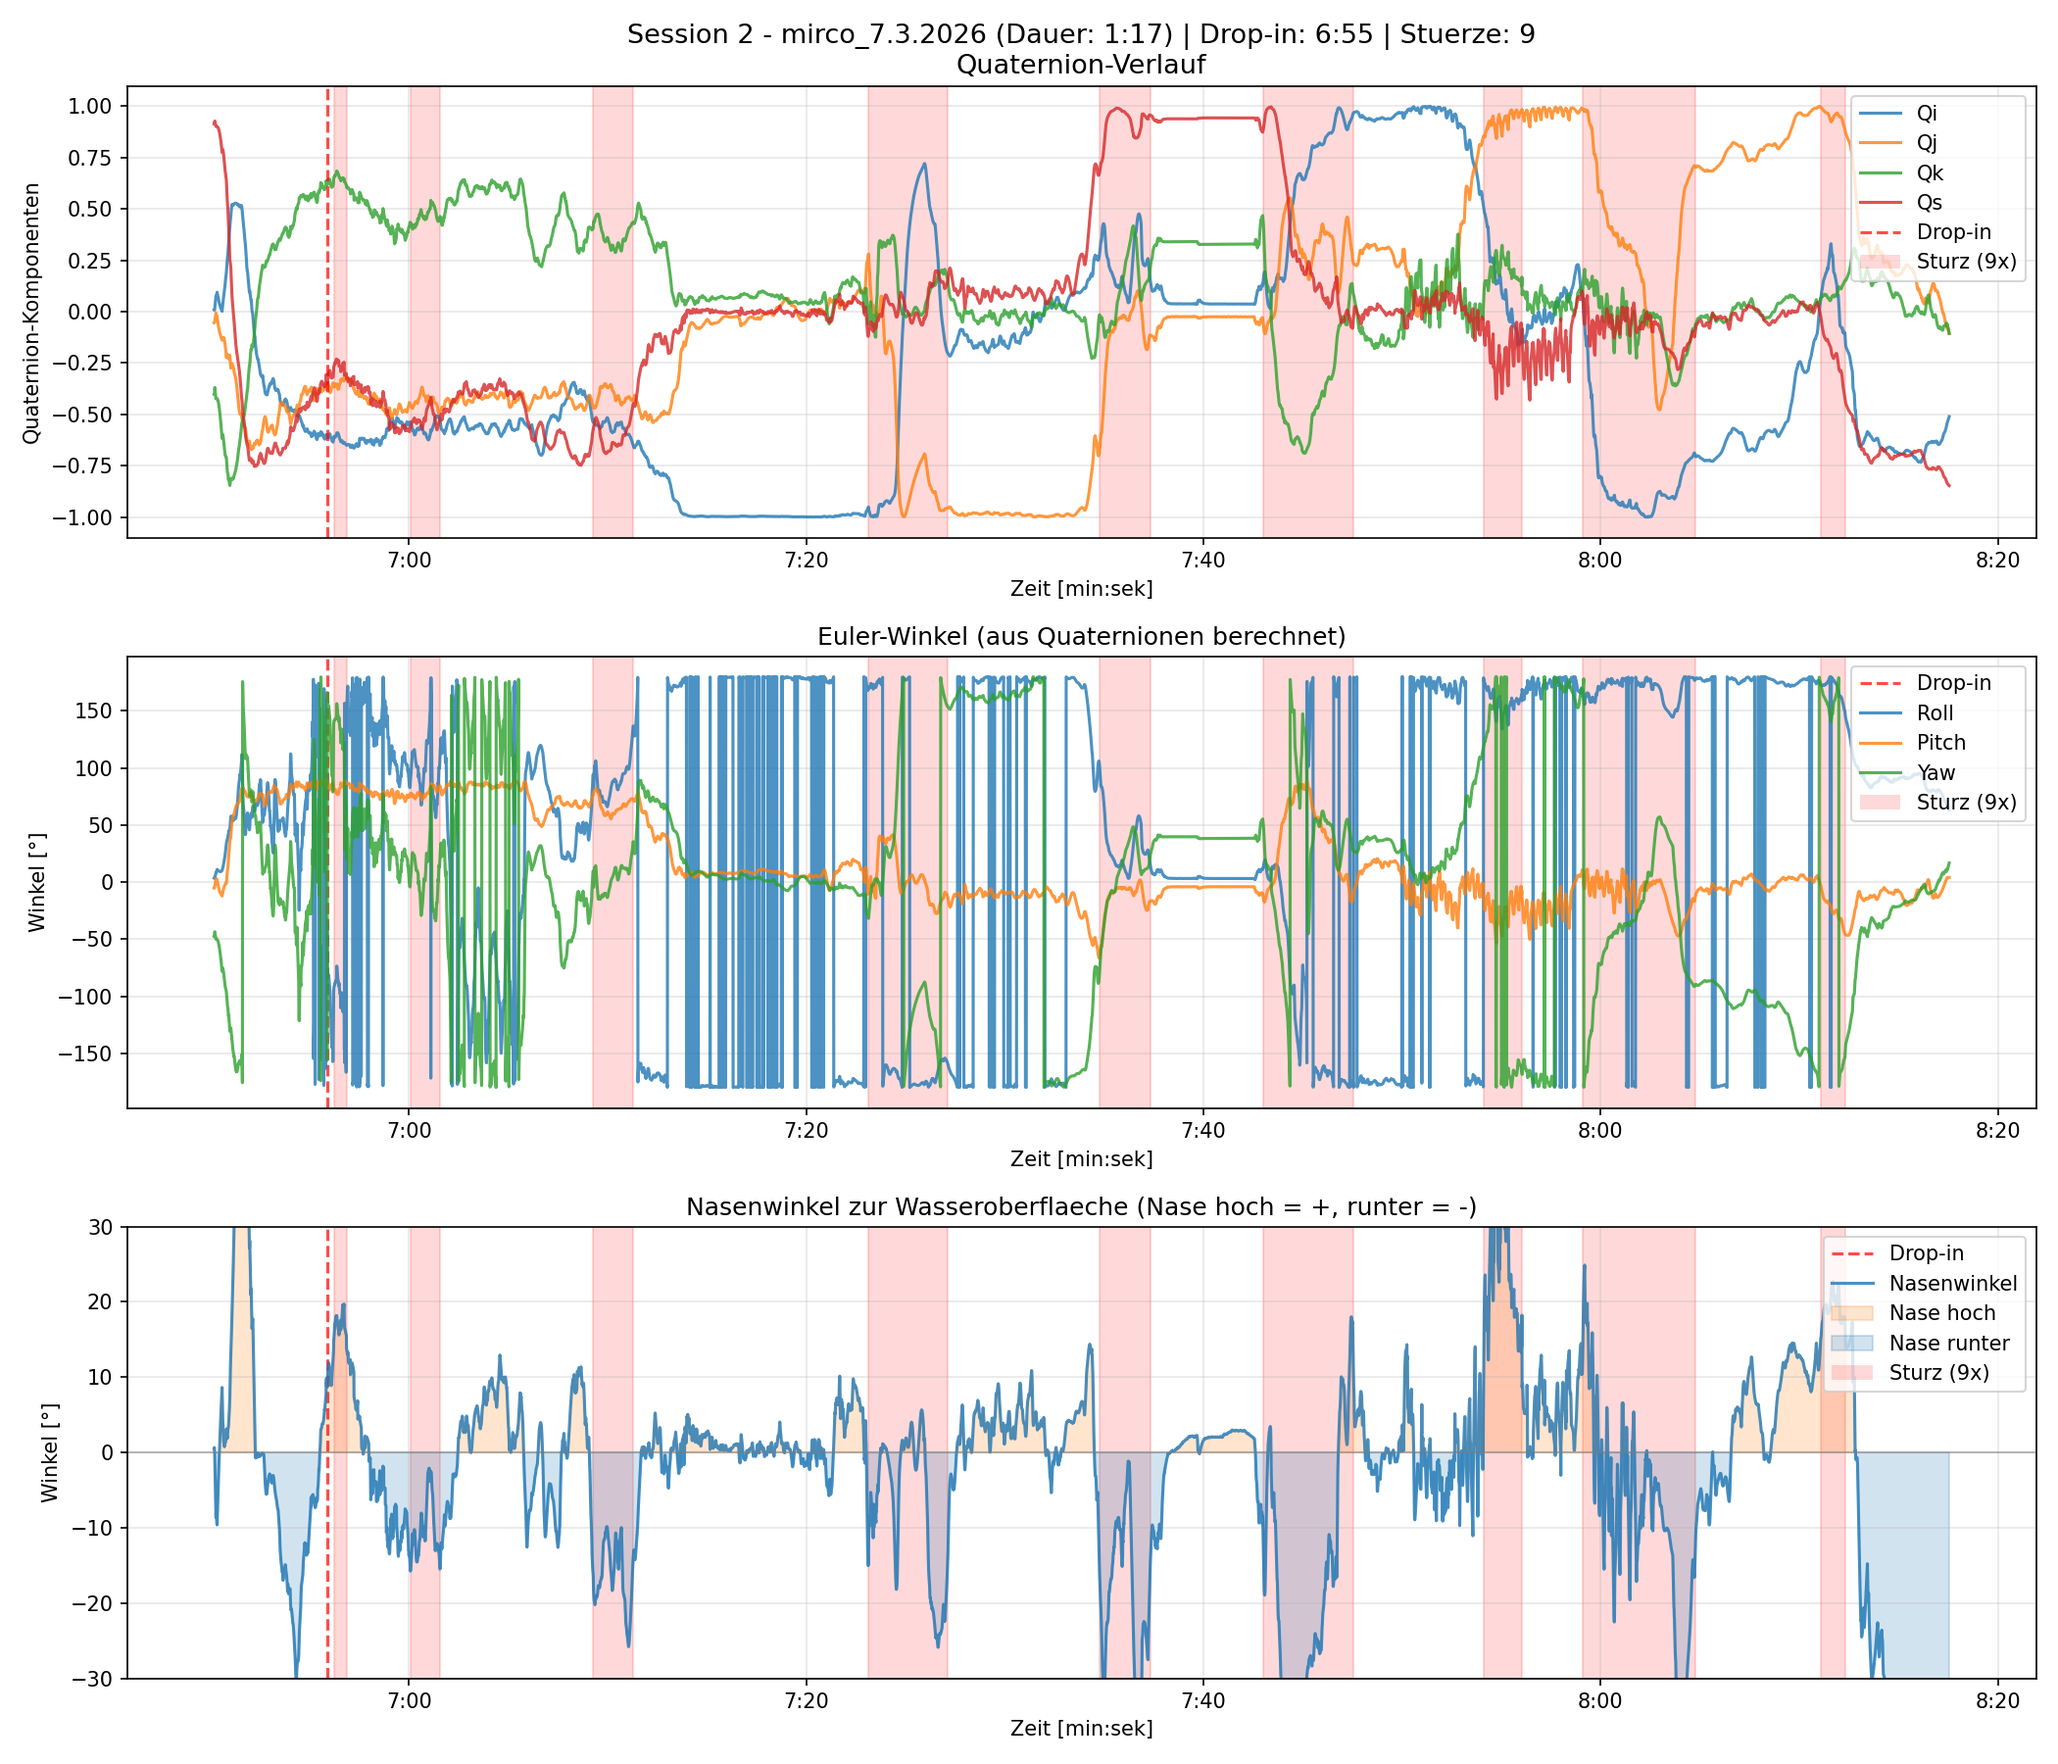
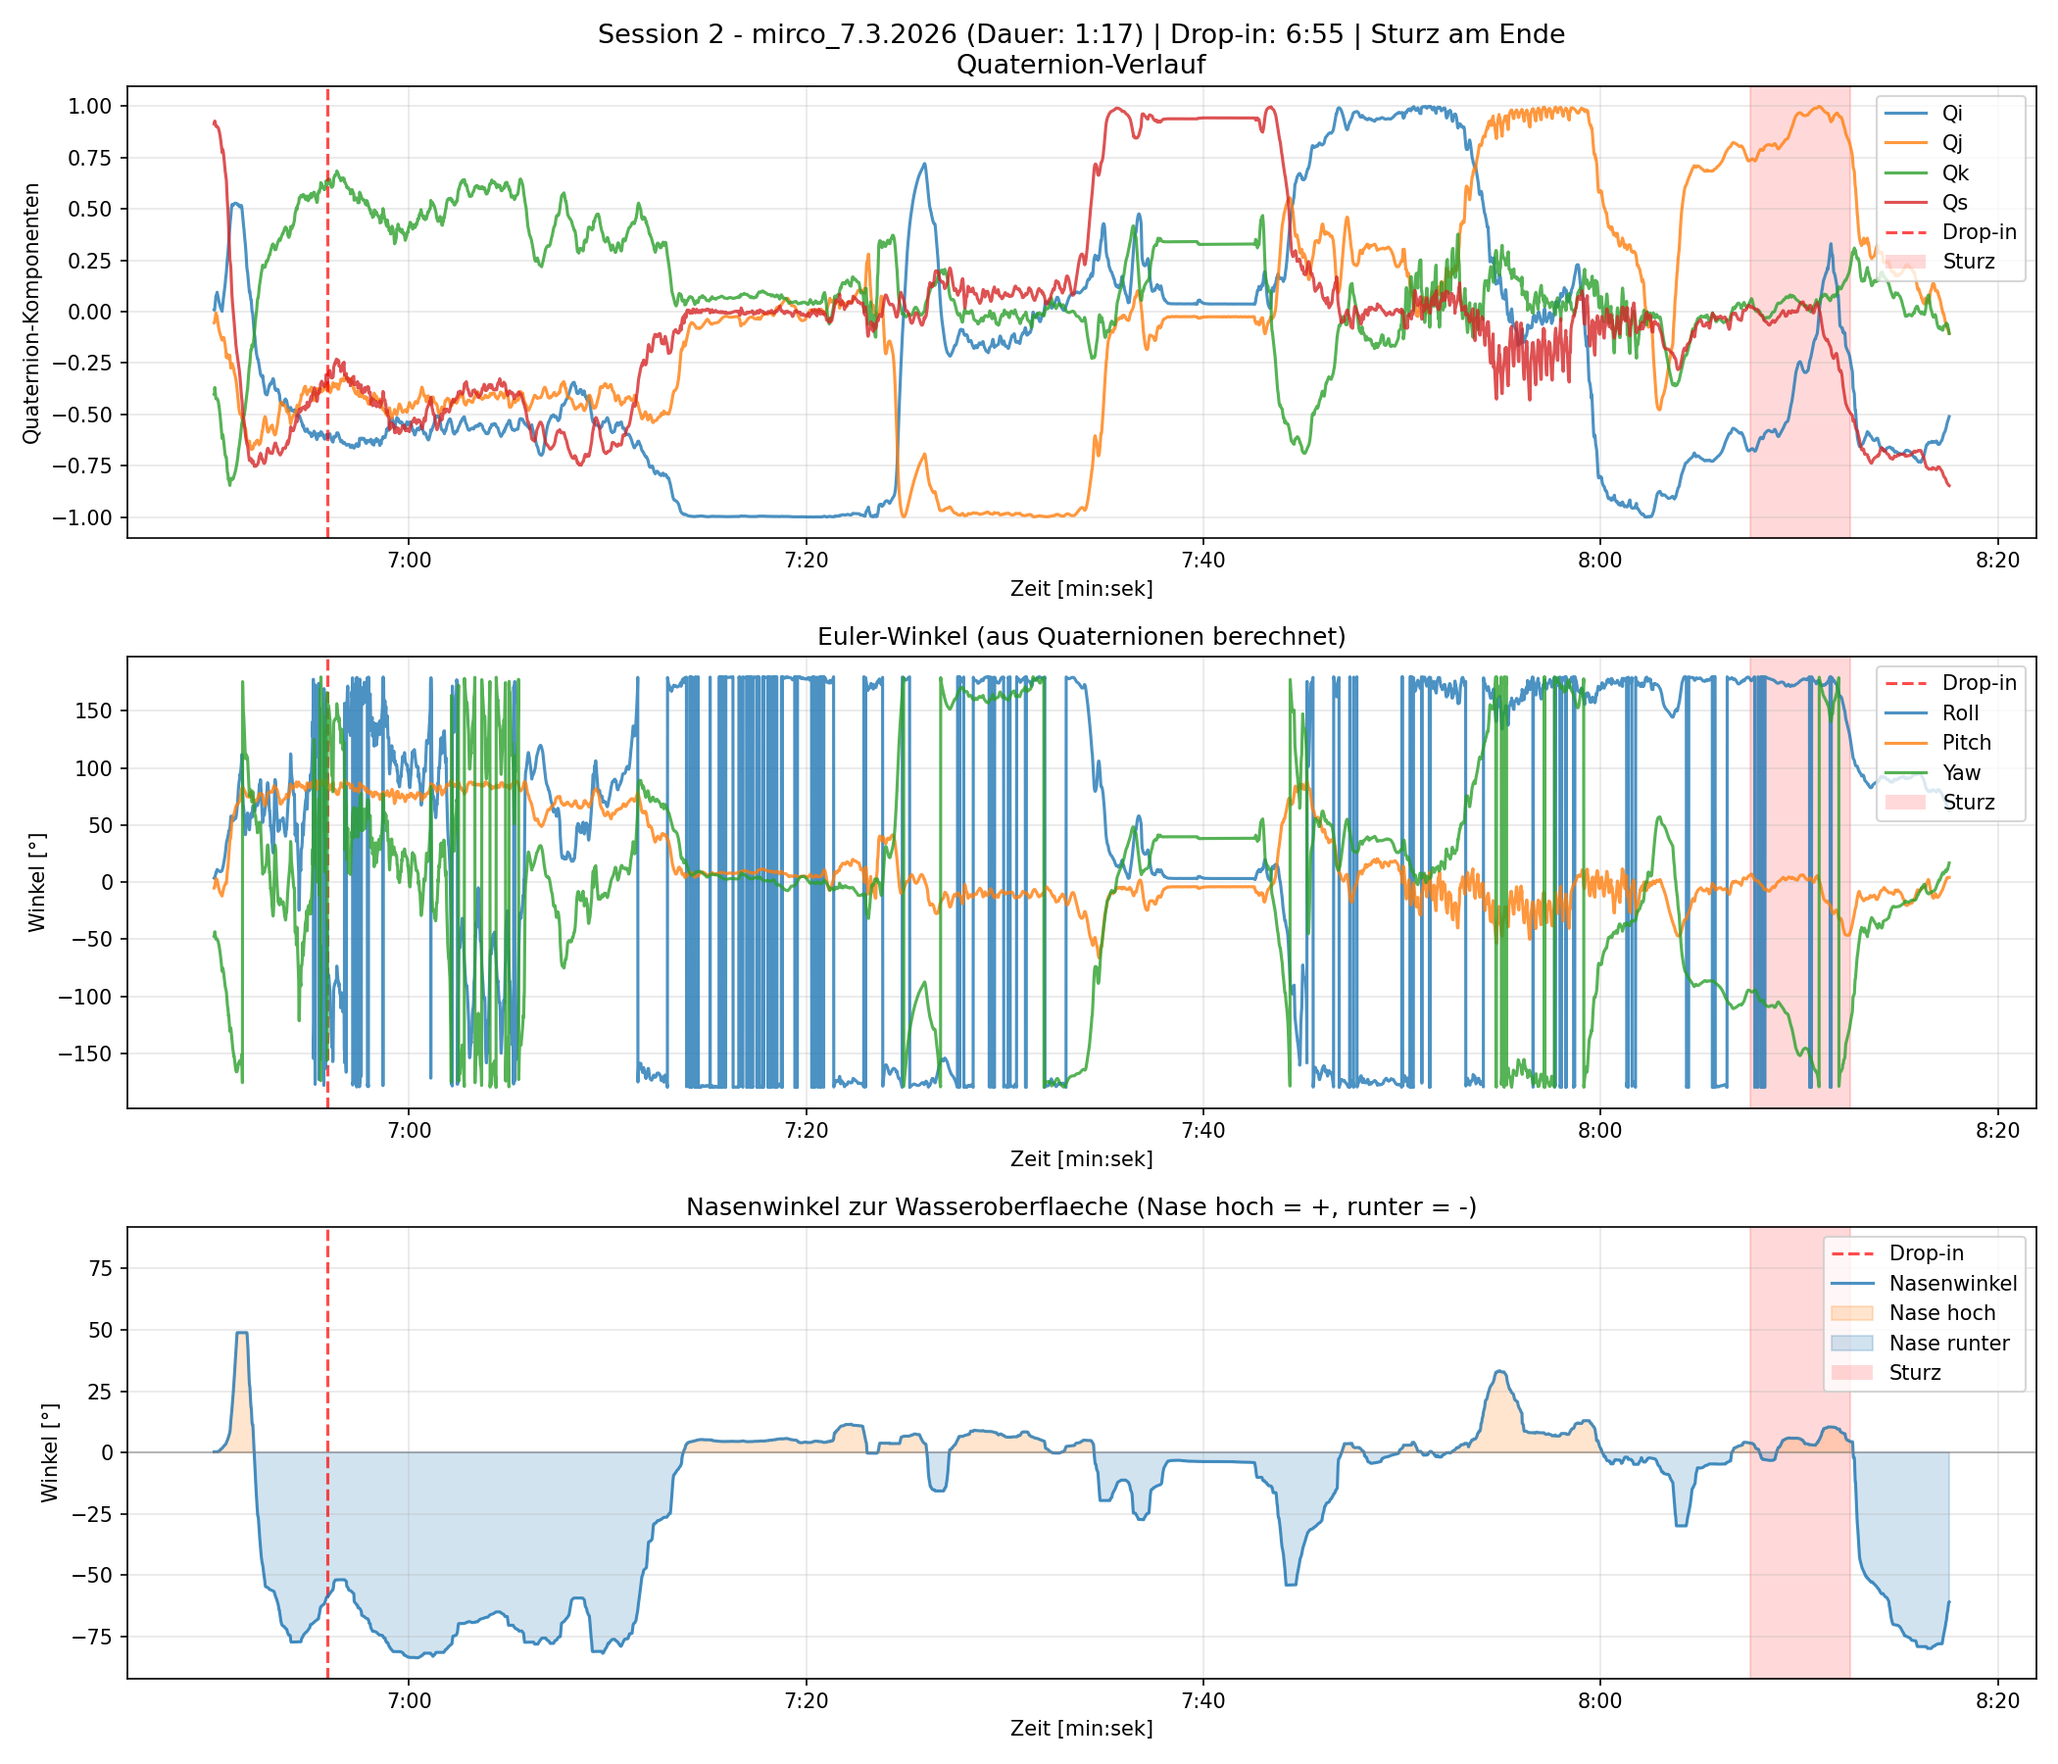
Improve nose angle: median filter, auto-scale, crash-masked baseline
- 1-second median filter removes magnetometer correction spikes
- 60-second rolling median baseline computed from stable (non-crash) samples
- Auto-scale y-axis per session to show full value range
- Mark only drop-in and end crash (no false positives mid-session)
- Document magnetometer interference from metal mast in README

diff --git a/Utilities/scripts/visualize_sensors.py b/Utilities/scripts/visualize_sensors.py
@@ -221,33 +221,30 @@ def plot_quaternions(csv_path, output_dir):
         # Rotated Y-axis [0,1,0] z-component: nose elevation
         nose_z = 2 * (qj_a * qk_a - qs_a * qi_a)
         nose_elev = np.degrees(np.arcsin(np.clip(nose_z, -1, 1)))
-        # High-pass filter: remove slow baseline drift, keep pump oscillation
-        # Use rolling median (robust to crash spikes) over 15 seconds as baseline
-        baseline = pd.Series(nose_elev).rolling(
-            15 * sample_rate_hz, center=True, min_periods=1).median().values
-        nose_angle = nose_elev - baseline
+        # Median filter: remove magnetometer correction spikes in sensor fusion
+        # Use 1-second window to catch multi-sample correction bursts
+        smooth_window = sample_rate_hz
+        nose_smooth = pd.Series(nose_elev).rolling(
+            smooth_window, center=True, min_periods=1).median().values
 
-        # Detect crashes: nose angle exceeds ±15° within the session
-        crash_threshold = 15
-        session_nose = np.abs(nose_angle[s:e])
-        in_crash = session_nose > crash_threshold
-        crash_changes = np.diff(in_crash.astype(int), prepend=0)
-        c_starts = s + np.where(crash_changes == 1)[0]
-        c_ends = s + np.where(crash_changes == -1)[0]
-        if len(c_ends) < len(c_starts):
-            c_ends = np.append(c_ends, e)
-        # Merge crash regions within 3 seconds of each other
-        merge_gap = 3 * sample_rate_hz
-        crashes = []
-        for cs, ce in zip(c_starts, c_ends):
-            if crashes and (cs - crashes[-1][1]) < merge_gap:
-                crashes[-1] = (crashes[-1][0], ce)
-            else:
-                crashes.append((cs, ce))
-        crash_count = len(crashes)
-        for cs, ce in crashes:
-            for ax in (az1, az2, az3):
-                ax.axvspan(t_sec[cs], t_sec[ce], alpha=0.15, color='red', zorder=0)
+        # High-pass filter: remove baseline drift
+        # Mask crash values before computing baseline
+        nose_series = pd.Series(nose_smooth)
+        rough_baseline = nose_series.rolling(
+            10 * sample_rate_hz, center=True, min_periods=1).median()
+        stable_mask = (nose_smooth - rough_baseline).abs() < 20
+        nose_stable = nose_series.copy()
+        nose_stable[~stable_mask] = np.nan
+        baseline = nose_stable.rolling(
+            60 * sample_rate_hz, center=True, min_periods=1).median()
+        baseline = baseline.interpolate(method='linear').bfill().ffill().values
+        nose_angle = nose_smooth - baseline
+
+        # Mark end-of-session crash: last 5 seconds of the session
+        crash_start = e - 5 * sample_rate_hz
+        crash_count = 1
+        for ax in (az1, az2, az3):
+            ax.axvspan(t_sec[crash_start], t_sec[e], alpha=0.15, color='red', zorder=0)
 
         az3.plot(t_sec[sl], nose_angle[s_padded:e_padded], color='tab:blue', alpha=0.8, label='Nasenwinkel')
         az3.axhline(0, color='gray', linestyle='-', linewidth=1, alpha=0.5)
@@ -258,13 +255,17 @@ def plot_quaternions(csv_path, output_dir):
                          where=nose_angle[s_padded:e_padded] < 0,
                          alpha=0.2, color='tab:blue', label='Nase runter')
         az3.set_ylabel('Winkel [°]')
-        az3.set_ylim(-30, 30)
+        # Auto-scale y-axis to show full data range with some padding
+        session_data = nose_angle[s_padded:e_padded]
+        y_max = max(abs(np.nanmin(session_data)), abs(np.nanmax(session_data))) * 1.1
+        y_max = max(y_max, 10)  # minimum ±10°
+        az3.set_ylim(-y_max, y_max)
         az3.set_title('Nasenwinkel zur Wasseroberflaeche (Nase hoch = +, runter = -)')
         az3.grid(True, alpha=0.3)
         az3.xaxis.set_major_formatter(time_fmt)
         az3.set_xlabel('Zeit [min:sek]')
 
-        session_label += f' | Stuerze: {crash_count}'
+        session_label += ' | Sturz am Ende'
 
         az1.set_title(f'{session_label}\nQuaternion-Verlauf', fontsize=13)
         az1.grid(True, alpha=0.3)
@@ -281,18 +282,13 @@ def plot_quaternions(csv_path, output_dir):
         az2.set_xlabel('Zeit [min:sek]')
 
         # Add legends with crash patch
-        if crash_count > 0:
-            from matplotlib.patches import Patch
-            crash_patch = Patch(facecolor='red', alpha=0.15,
-                                label=f'Sturz ({crash_count}x)')
-            for ax in (az1, az2, az3):
-                h, l = ax.get_legend_handles_labels()
-                h.append(crash_patch)
-                l.append(f'Sturz ({crash_count}x)')
-                ax.legend(handles=h, labels=l, loc='upper right')
-        else:
-            for ax in (az1, az2, az3):
-                ax.legend(loc='upper right')
+        from matplotlib.patches import Patch
+        crash_patch = Patch(facecolor='red', alpha=0.15, label='Sturz')
+        for ax in (az1, az2, az3):
+            h, l = ax.get_legend_handles_labels()
+            h.append(crash_patch)
+            l.append('Sturz')
+            ax.legend(handles=h, labels=l, loc='upper right')
 
         plt.tight_layout()
         out_z = os.path.join(output_dir, f'plot_quaternions_{base}_session{i}.png')

diff --git a/README.md b/README.md
@@ -84,7 +84,9 @@ Python scripts for plotting sensor and quaternion data are in `Utilities/scripts
 Generated plots are saved to the `png/` directory with filenames derived from the input CSV (e.g. `plot_quaternions_mirco_7.3.2026.png`).
 Quaternion plots display time in min:sek format based on a 120 Hz sample rate.
 Pumpfoil sessions are auto-detected (rhythmic pitch oscillation > 0.3 Hz filters out walking).
-Each session plot includes quaternion components, Euler angles, and board tilt angle relative to the water surface (calibrated from the quiet period before each session).
+Each session plot includes quaternion components, Euler angles, and board nose angle relative to the water surface. The nose angle is computed from the rotated sensor Y-axis (sensor mounted in Breitachse = X across board), with a 1-second median filter to remove magnetometer correction spikes and a 60-second baseline removal. Drop-in and end-of-session crash are marked.
+
+**Sensor mounting note:** Mount the sensor as far as possible from the metal mast/foil to minimize magnetometer interference. Mounting near metal causes sensor fusion correction jumps that degrade data quality in longer sessions.
 
 Requires: `pandas`, `numpy`, `matplotlib`, `scipy` (pumpfoil only).
 

diff --git a/CLAUDE.md b/CLAUDE.md
@@ -109,7 +109,10 @@ Python scripts in `Utilities/scripts/` for plotting sensor data:
 Generated plots go to `png/` with filenames derived from the input CSV (e.g. `plot_quaternions_mirco_7.3.2026.png`).
 Quaternion plots use a min:sek time axis based on 120 Hz sample rate.
 Pumpfoil sessions are auto-detected by pitch oscillation frequency (>0.3 Hz = pumping, <0.3 Hz = walking).
-Each session gets a zoomed plot with quaternions, Euler angles, and calibrated board tilt angle to water.
+Each session gets a zoomed plot with quaternions, Euler angles, and nose angle to water.
+Nose angle uses rotated sensor Y-axis (Breitachse mounting), 1s median filter (removes magnetometer spikes),
+60s rolling median baseline (crash-masked). Drop-in and end crash are marked.
+Mounting sensor near metal mast causes magnetometer interference → sensor fusion correction jumps in later sessions.
 Raw CSV data lives in `csv/`.
 
 Note: matplotlib `fig.suptitle()` has a font rendering bug with German characters (umlauts garbled in bold). Workaround: use `ax.set_title()` on the first axes with a two-line title instead.
